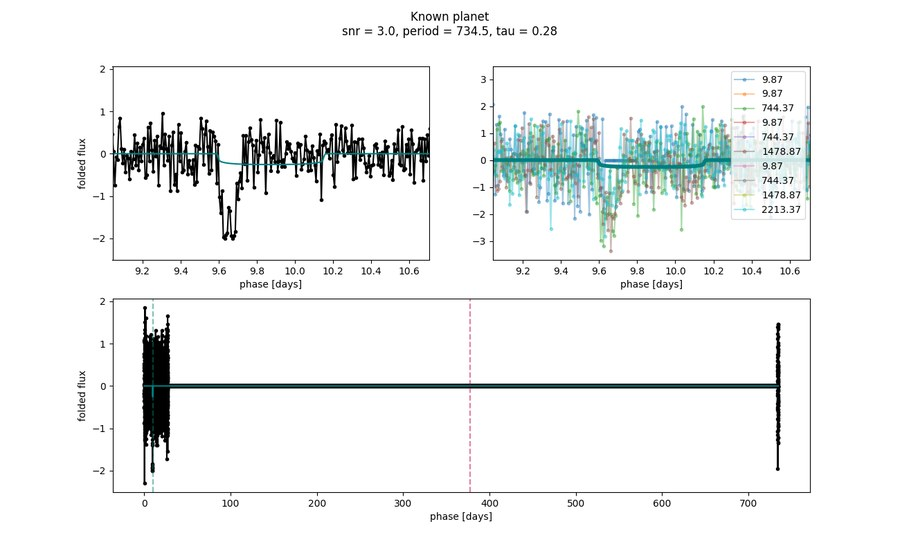
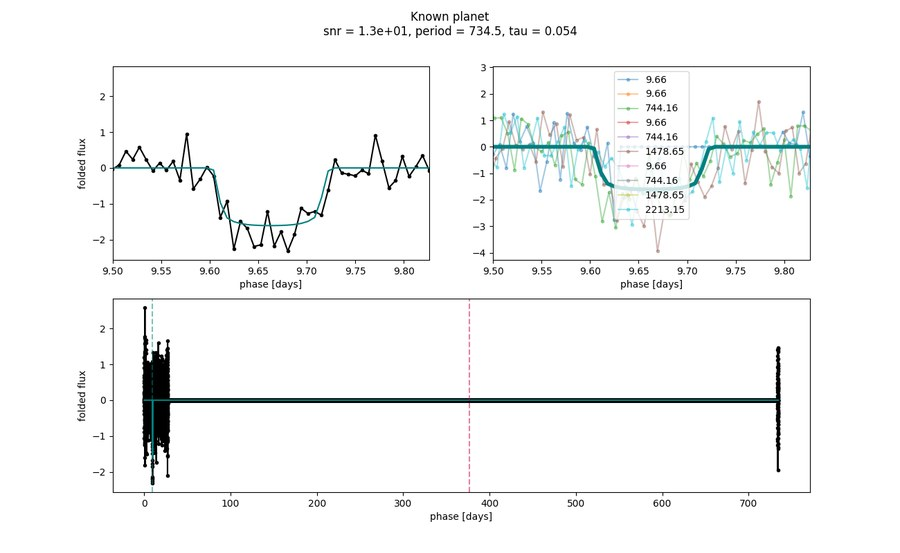
Fix compensating-filter tau bug (436873727, 815.02); remove circumbinary TOI-1338
The known-planet (phase,tau) grid can land in a spurious narrow-tau (or broad-tau) SNR spike
whose local matched-filter optimum keeps tau far from the true transit width. mf.optimize is
local and cannot cross the SNR valley to the real (wide) transit, so the FGP mask (~1.3*tau)
then eats the transit wings -- the "compensating filter". Fix: also optimize from the trusted
RecoveryRun/ExoFOP seed and keep whichever start reaches the higher SNR (period-guarded).

- 436873727/4641.01: tau 1.0h -> 5.2h (matches ExoFOP 5.4h), SNR 38 -> 85, now passes.
- 102840239/815.02: tau 12.4h -> 2.6h (matches ExoFOP 2.5h), SNR 3 -> 13.
  (815.01 unchanged at 3.1h; the other two short-tau cases, 240849748 & 457337619, are
   genuinely narrow and correctly left unchanged.)

Removed 260128333/1338.01 (circumbinary TOI-1338, huge TTVs): only a single planet transit is
usable, so it is unvalidatable -> tois_removed_low_transit.csv.

diff --git a/remove_low_transit.py b/remove_low_transit.py
@@ -28,6 +28,9 @@ MANUAL = {
     # different/spurious signal -> remove (user-confirmed).
     (67395329, "6873.01"), (92443533, "6812.01"), (156514476, "6884.01"),
     (192415680, "6041.01"), (406684949, "5442.01"),
+    # circumbinary TOI-1338 with huge TTVs: only a single planet transit is usable (the strong
+    # short-period signal is the eclipsing binary, not the planet) -> unvalidatable (user-confirmed).
+    (260128333, "1338.01"),
 }
 
 w = pd.read_csv(TOIS)
